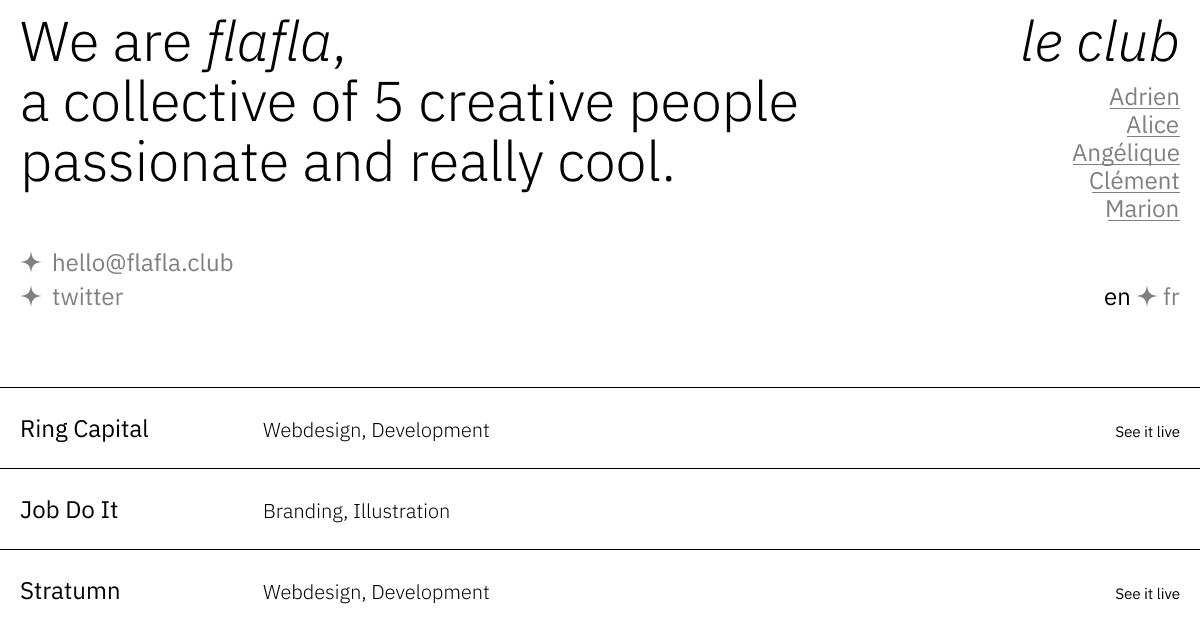
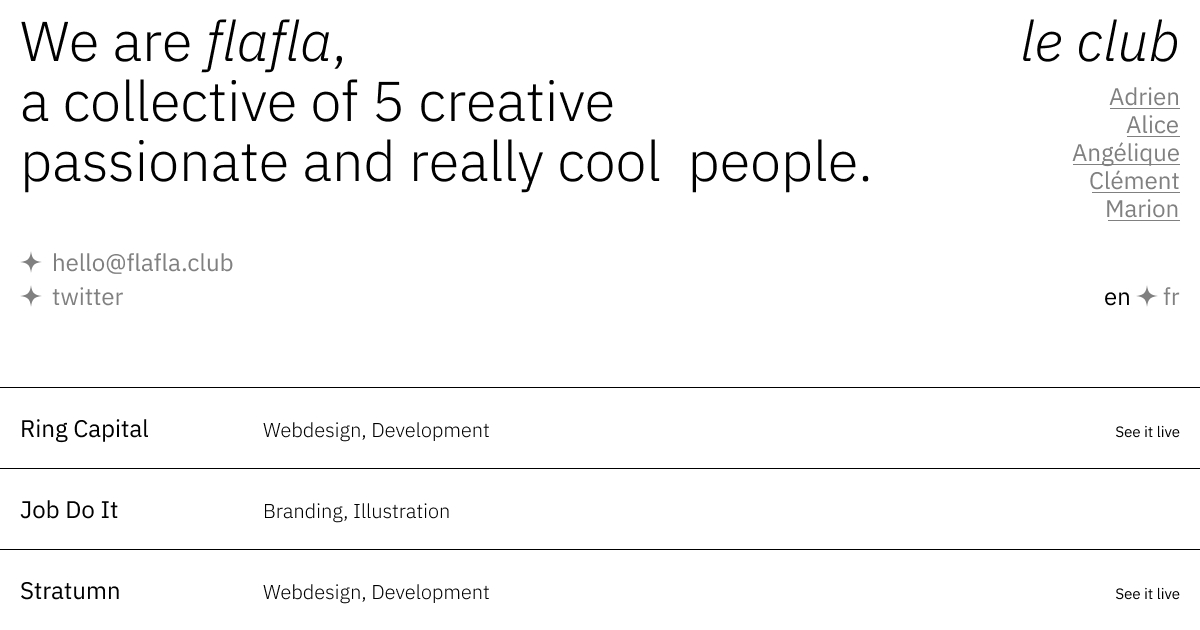
✏ change catchphrase

Changed region(s): [[0.5242, 0.1206, 0.6783, 0.2111], [0.555, 0.2413, 0.7092, 0.3016]]

diff --git a/src/en.html b/src/en.html
@@ -50,15 +50,15 @@
         <meta name="twitter:title" content="flafla ✦ Creative collective" />
         <meta
             name="description"
-            content="We are flafla, a collective of 5 creative people passionate and really cool."
+            content="We are flafla, a collective of 5 creative, passionate and really cool people."
         />
         <meta
             name="og:description"
-            content="We are flafla, a collective of 5 creative people passionate and really cool."
+            content="We are flafla, a collective of 5 creative, passionate and really cool people."
         />
         <meta
             name="twitter:description"
-            content="We are flafla, a collective of 5 creative people passionate and really cool."
+            content="We are flafla, a collective of 5 creative, passionate and really cool people."
         />
     </head>
     <body>
@@ -68,8 +68,8 @@
                     <div class="hero has-gutter">
                         <h1 class="h1">
                             We are <strong>flafla</strong>,<br />
-                            a collective of 5 creative people<br />
-                            passionate and really cool.
+                            a collective of 5 creative<br />
+                            passionate and really cool people.
                         </h1>
                         <div class="hero-links">
                             <a class="link" href="mailto:hello@flafla.club">

diff --git a/src/index.html b/src/index.html
@@ -47,15 +47,15 @@
         <meta name="twitter:title" content="flafla ✦ Collectif créatif" />
         <meta
             name="description"
-            content="Nous sommes flafla, un collectif de 5 créatifs passionnés et vraiment sympa."
+            content="Nous sommes flafla, un collectif de 5 créatifs passionnés et vraiment sympas."
         />
         <meta
             name="og:description"
-            content="Nous sommes flafla, un collectif de 5 créatifs passionnés et vraiment sympa."
+            content="Nous sommes flafla, un collectif de 5 créatifs passionnés et vraiment sympas."
         />
         <meta
             name="twitter:description"
-            content="Nous sommes flafla, un collectif de 5 créatifs passionnés et vraiment sympa."
+            content="Nous sommes flafla, un collectif de 5 créatifs passionnés et vraiment sympas."
         />
     </head>
     <body>
@@ -66,7 +66,7 @@
                         <h1 class="h1">
                             Nous sommes <strong>flafla</strong>,<br />
                             un collectif de 5 créatifs<br />
-                            passionnés et vraiment sympa.
+                            passionnés et vraiment sympas.
                         </h1>
                         <div class="hero-links">
                             <a class="link" href="mailto:hello@flafla.club">
